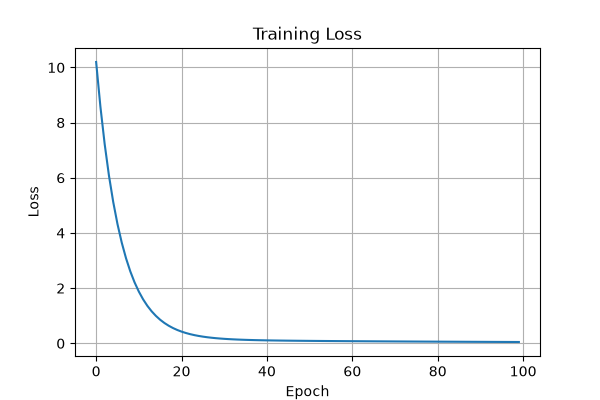
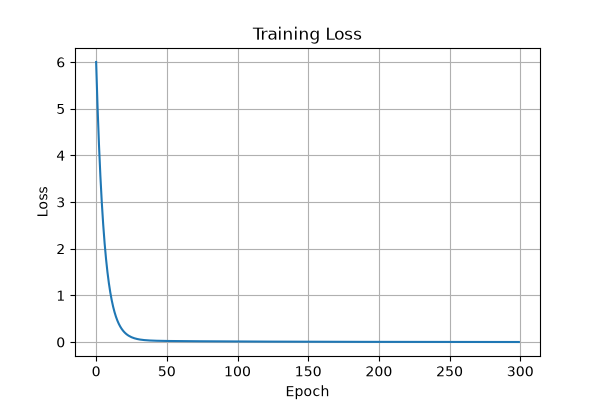
Merge remote README with local changes

diff --git a/main.py b/main.py
@@ -6,6 +6,9 @@ from plot import plot_loss, plot_predictions
 
 def main():
 
+    import torch
+    torch.manual_seed(42)
+
     # Load data
     x, y = get_data()
 
@@ -24,6 +27,28 @@ def main():
 
     print("\nPredictions:")
     print(model(x))
+    print(f"\nInitial Loss: {losses[0]:.4f}")
+    print(f"Final Loss: {losses[-1]:.4f}")
+
+    true_weight, true_bias = 2.0, 1.0
+    learned_weight = model.linear.weight.item()
+    learned_bias = model.linear.bias.item()
+
+    print(f"\nTrue weight: {true_weight}, Learned weight: {learned_weight:.4f}")
+    print(f"True bias: {true_bias}, Learned bias: {learned_bias:.4f}")
+
+    weight_error = abs(learned_weight - true_weight) / true_weight * 100
+    bias_error = abs(learned_bias - true_bias) / true_bias * 100
+    print(f"Weight error: {weight_error:.2f}%")
+    print(f"Bias error: {bias_error:.2f}%")
+
+    convergence_threshold = 0.01
+    for i, l in enumerate(losses):
+        if l < convergence_threshold:
+            print(f"\nConverged (loss < {convergence_threshold}) at epoch {i}")
+            break
+    else:
+        print(f"\nDid not converge below {convergence_threshold} within {len(losses)} epochs")
 
     # Create plots
     plot_loss(losses)

diff --git a/train.py b/train.py
@@ -3,7 +3,7 @@ import torch.nn as nn
 import copy
 
 
-def train_model(model, x, y, epochs=100, learning_rate=0.01):
+def train_model(model, x, y, epochs=300, learning_rate=0.01):
 
     criterion = nn.MSELoss()
     optimizer = torch.optim.SGD(model.parameters(), lr=learning_rate)
